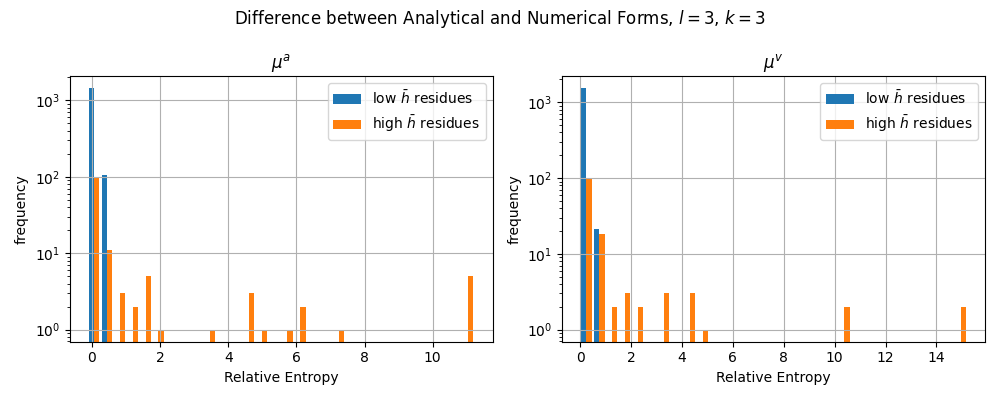
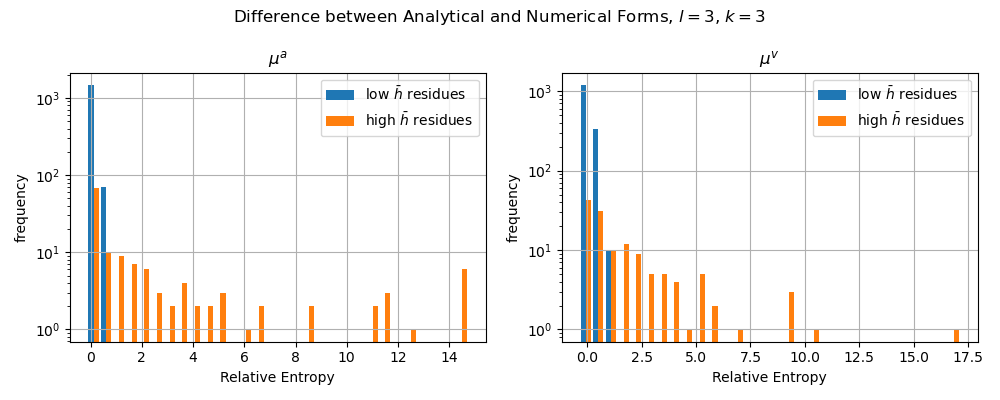
Ising bptt corrected wrong solution

diff --git a/writeup.tex b/writeup.tex
@@ -1841,7 +1841,7 @@ Hence, rewriting the objective, define
 
 Taking the Lagrange multiplier of the above target $\widetilde{V}(\beta, B, \ell, k, \pi)$ on $\pi$, we have
 \begin{equation*}
-    \frac{\partial \widetilde{V}}{\partial \pi(x, x')} = \beta k x x' + \alpha B x + B x' + (k+\alpha) \log \pi^0(x) + (k+1)\log\pi^1(x') - k\log\pi(x, x') + \lambda = 0,
+    \frac{\partial \widetilde{V}}{\partial \pi(x, x')} = \beta k x x' + \alpha B x + B x' + (k-\alpha) \log \pi^0(x) + (k-1)\log\pi^1(x') - k\log\pi(x, x') + \lambda = 0,
 \end{equation*}
 where $\lambda$ is a constant coming from the Lagrange multiplier of $\sum_{x, x'\in\mathcal{X}} \pi(x, x') = 1$.
 
@@ -1968,16 +1968,20 @@ This is a bit complicated. There seems to be multiple solutions to the cavity eq
 
 To solve for $\mu^a$ and $\mu^v$, we first consider the root mark distributions:
 \begin{equation*}
-    \pi^0(x) = \frac1{Z_\pi}e^{\bar{h}^a x} 2\cosh(\beta x + \bar{h}^v)
+    \pi^0(x) = \frac1{Z_\pi}e^{\bar{h}^a x} 2\cosh(\beta + \bar{h}^vx)
 \end{equation*}
 we can see that
 \begin{equation*}
-    Z^\pi = 2e^{\bar{h}^a}\cosh(\beta + \bar{h}^v) + 2e^{-\bar{h}^a}\cosh(\beta - \bar{h}^v)
+    \pi^{1|0}(x'|x) =\frac{\pi(x, x')}{\pi^0(x)}= \frac{\exp[\beta xx' + \bar{h}^vx']}{2\cosh(\beta + \bar{h}^vx)}.
 \end{equation*}
-Thus
+and
+\begin{equation*}
+    Z^\pi = 2e^{\bar{h}^a}\cosh(\beta + \bar{h}^v) + 2e^{-\bar{h}^a}\cosh(\beta - \bar{h}^v),
+\end{equation*}
+Thus,
 \begin{align*}
-    \pi^0(x) & = \frac{e^{\bar{h}^a x} \cosh(\beta x + \bar{h}^v)}{e^{\bar{h}^a x}\cosh(\beta x + \bar{h}^v) + e^{-\bar{h}^ax}\cosh(\beta x - \bar{h}^v)} \\
-             & = \frac{1}{1 + e^{-2\bar{h}^ax}\frac{\cosh(\beta x - \bar{h}^v)}{\cosh(\beta x + \bar{h}^v)}}
+    \pi^0(x) & = \frac{e^{\bar{h}^a x} \cosh(\beta + \bar{h}^vx)}{e^{\bar{h}^a x}\cosh(\beta + \bar{h}^vx) + e^{-\bar{h}^ax}\cosh(\beta - \bar{h}^vx)} \\
+             & = \frac{1}{1 + e^{-2\bar{h}^ax}\frac{\cosh(\beta - \bar{h}^vx)}{\cosh(\beta + \bar{h}^vx)}}.
 \end{align*}
 We can rewrite (\ref{Eq.ISBP-hbar-a}) as
 \begin{equation*}
@@ -1987,43 +1991,43 @@ for all $x\in\{-1, 1\}$.
 
 Exponentiating and rearranging, we have
 \begin{equation*}
-    e^{2\bar{h}^ax}\left[\frac{\cosh(\beta x + \bar{h}^v)}{\cosh(\beta x - \bar{h}^v)}\right] = e^{2Bx}\left[\frac{\cosh(\beta x + \bar{h}^v)}{\cosh(\beta x - \bar{h}^v)}\right]^\ell.
+    e^{2\bar{h}^ax}\left[\frac{\cosh(\beta + \bar{h}^vx)}{\cosh(\beta - \bar{h}^vx)}\right] = e^{2Bx}\left[\frac{\cosh(\beta + \bar{h}^vx)}{\cosh(\beta - \bar{h}^vx)}\right]^\ell.
 \end{equation*}
 Thus,
 \begin{align*}
-    \pi^0(x) & = \frac{1}{1 + e^{-2Bx}\left[\frac{\cosh(\beta x - \bar{h}^v)}{\cosh(\beta x + \bar{h}^v)}\right]^\ell}                         \\
+    \pi^0(x) & = \frac{1}{1 + e^{-2Bx}\left[\frac{\cosh(\beta - \bar{h}^vx)}{\cosh(\beta + \bar{h}^vx)}\right]^\ell}                           \\
              & = \frac{e^{Bx}[\cosh(\beta x + \bar{h}^v)]^\ell}{e^{B}[\cosh(\beta + \bar{h}^v)]^\ell + e^{-B}[\cosh(\beta - \bar{h}^v)]^\ell}.
 \end{align*}
 Therefore,
 \begin{align*}
-    \bar{\mu}^a(x, j; \pi) & = \pi^0(x){\ell \choose j} \left[\frac{\pi(x, x)}{\pi^0(x)}\right]^j \left[\frac{\pi(x, -x)}{\pi^0(x)}\right]^{\ell-j}      \\
-                           & = \frac{e^{Bx}}{e^{B}[\cosh(\beta + \bar{h}^v)]^\ell + e^{-B}[\cosh(\beta - \bar{h}^v)]^\ell}
-    {\ell \choose j} \left[e^{\beta xx + \bar{h}^a x + \bar{h}^v x}\right]^j
-    \left[e^{\beta x(-x) + \bar{h}^a x + \bar{h}^v (-x)}\right]^{\ell - j}
-    \intertext{Let $Z^a = e^{B}[\cosh(\beta + \bar{h}^v)]^\ell + e^{-B}[\cosh(\beta - \bar{h}^v)]^\ell$}
-                           & = \frac1{Z^a} {\ell \choose j} \exp\left\{\beta x [jx - (\ell-j)x] + Bx + \bar{h}^a x + \bar{h}^v [jx - (\ell-j) x]\right\}
+    \bar{\mu}^a(x, j; \pi) & = \pi^0(x){\ell \choose j} \left[\pi^{1|0}(x|x)\right]^j \left[\pi^{1|0}(-x|x)\right]^{\ell-j}                \\
+                           & = \frac{e^{Bx}}{e^{B}[2\cosh(\beta + \bar{h}^v)]^\ell + e^{-B}[2\cosh(\beta - \bar{h}^v)]^\ell}
+    {\ell \choose j} \left[e^{\beta xx + \bar{h}^v x}\right]^j
+    \left[e^{\beta x(-x) + \bar{h}^v (-x)}\right]^{\ell - j}
+    \intertext{Let $Z^a = e^{B}[2\cosh(\beta + \bar{h}^v)]^\ell + e^{-B}[2\cosh(\beta - \bar{h}^v)]^\ell$}
+                           & = \frac1{Z^a} {\ell \choose j} \exp\left\{\beta x [jx - (\ell-j)x] + Bx + \bar{h}^v [jx - (\ell-j) x]\right\}
 \end{align*}
 Similarly, by calculating $\pi^1$,
 \begin{equation*}
-    \bar{\mu}^v(x, i; \pi) = \frac1{Z^v} {k \choose i} \exp\left\{\beta x [ix - (k-i)x] + Bx + \bar{h}^a [ix - (k-i) x] + \bar{h}^v x\right\}.
+    \bar{\mu}^v(x, i; \pi) = \frac1{Z^v} {k \choose i} \exp\left\{\beta x [ix - (k-i)x] + Bx + \bar{h}^a [ix - (k-i) x]\right\}.
 \end{equation*}
 where
 \begin{equation*}
     Z^v = e^{B}[\cosh(\beta + \bar{h}^a)]^k + e^{-B}[\cosh(\beta - \bar{h}^a)]^k.
 \end{equation*}
-The optimizers are in the form
+The optimizers are of the form
 \begin{equation}
     \begin{cases}
-        \bar{\mu}^a(\mathbf{x}; \bar{h}^a, \bar{h}^v) = \displaystyle\frac1{Z^a} \exp\left(\beta \sum_{v=1}^\ell x_0x_v + Bx_0 + \bar{h}^a x_0 + \bar{h}^v \sum_{v=0}^\ell x_v\right) \\
-        \bar{\mu}^v(\mathbf{x}; \bar{h}^a, \bar{h}^v) = \displaystyle\frac1{Z^v} \exp\left(\beta \sum_{v=1}^k x_0x_v + Bx_0 + \bar{h}^v x_0 + \bar{h}^a \sum_{v=0}^k x_v\right),
+        \bar{\mu}^a(\mathbf{x}; \bar{h}^a, \bar{h}^v) = \displaystyle\frac1{Z^a} \exp\left(\beta \sum_{v=1}^\ell x_0x_v + Bx_0 + \bar{h}^v \sum_{v=0}^\ell x_v\right) \\
+        \bar{\mu}^v(\mathbf{x}; \bar{h}^a, \bar{h}^v) = \displaystyle\frac1{Z^v} \exp\left(\beta \sum_{v=1}^k x_0x_v + Bx_0 + \bar{h}^a \sum_{v=0}^k x_v\right),
     \end{cases}
     \label{Eq.ISBP-soln}
 \end{equation}
 where
 \begin{equation}
     \begin{cases}
-        Z^a = e^{B}[\cosh(\beta + \bar{h}^v)]^\ell + e^{-B}[\cosh(\beta - \bar{h}^v)]^\ell \\
-        Z^v = e^{B}[\cosh(\beta + \bar{h}^a)]^k + e^{-B}[\cosh(\beta - \bar{h}^a)]^k,
+        Z^a = e^{B}[2\cosh(\beta + \bar{h}^v)]^\ell + e^{-B}[2\cosh(\beta - \bar{h}^v)]^\ell \\
+        Z^v = e^{B}[2\cosh(\beta + \bar{h}^a)]^k + e^{-B}[2\cosh(\beta - \bar{h}^a)]^k,
     \end{cases}
 \end{equation}
 and
@@ -2038,21 +2042,21 @@ We can rewrite $Z^\pi$ in terms of $Z^a$ or $Z^v$, following the same steps as w
 \begin{align*}
     Z^\pi & = 2e^{\bar{h}^a} \cosh(\beta + \bar{h}^v)\left[1 + e^{-2\bar{h}^a}\frac{\cosh(\beta - \bar{h}^v)}{\cosh(\beta + \bar{h}^v)}\right]             \\
           & = 2e^{\bar{h}^a} \cosh(\beta + \bar{h}^v)\left\{1 + e^{-2B}\left[\frac{\cosh(\beta - \bar{h}^v)}{\cosh(\beta + \bar{h}^v)}\right]^\ell\right\} \\
-          & = 2e^{\bar{h}^a - B}[\cosh(\beta + \bar{h}^v)]^{-(\ell - 1)} Z^a
+          & = e^{\bar{h}^a - B}[2\cosh(\beta + \bar{h}^v)]^{-(\ell - 1)} Z^a
 \end{align*}
 Hence,
 \begin{equation}
-    \log Z^\pi = \log Z^a + \log 2 + (\bar{h}^a - B) - (\ell - 1) \log \cosh(\beta + \bar{h}^v).
+    \log Z^\pi = \log Z^a + (\bar{h}^a - B) - (\ell - 1) \log 2\cosh(\beta + \bar{h}^v).
     \label{Eq.ISBP-Zpi-Za}
 \end{equation}
 Similarly,
 \begin{equation}
-    \log Z^\pi = \log Z^v + \log 2 + (\bar{h}^v - B) - (k - 1) \log \cosh(\beta + \bar{h}^a).
+    \log Z^\pi = \log Z^v + (\bar{h}^v - B) - (k - 1) \log 2\cosh(\beta + \bar{h}^a).
     \label{Eq.ISBP-Zpi-Zv}
 \end{equation}
 Thus,
 \begin{equation}
-    \frac{Z^a}{Z^v} = \frac{e^{-\bar{h}^a}[\cosh(\beta + \bar{h}^v)]^{\ell - 1}}{e^{-\bar{h}^v}[\cosh(\beta + \bar{h}^a)]^{k - 1}}.
+    \frac{Z^a}{Z^v} = \frac{e^{-\bar{h}^a}[2\cosh(\beta + \bar{h}^v)]^{\ell - 1}}{e^{-\bar{h}^v}[2\cosh(\beta + \bar{h}^a)]^{k - 1}}.
 \end{equation}
 
 \subsection{Bipartite Ising Annealed Pressure}
@@ -2069,8 +2073,8 @@ for $Z^\pi = 2e^{\bar{h}^a}\cosh(\beta + \bar{h}^v) + 2e^{-\bar{h}^a}\cosh(\beta
 and
 \begin{equation*}
     \begin{aligned}
-        \pi^0(x) = \frac1{Z^a}e^{Bx}[\cosh(\beta x + \bar{h}^v)]^\ell \\
-        \pi^1(x) = \frac1{Z^v}e^{Bx}[\cosh(\beta x + \bar{h}^a)]^k.
+        \pi^0(x) = \frac1{Z^a}e^{Bx}[2\cosh(\beta + \bar{h}^vx)]^\ell \\
+        \pi^1(x) = \frac1{Z^v}e^{Bx}[2\cosh(\beta + \bar{h}^ax)]^k.
     \end{aligned}
 \end{equation*}
 Notice that all of these distributions are exponential distributions, and for exponential distribution
@@ -2084,37 +2088,37 @@ we can write
 \end{equation*}
 Thus,
 \begin{align*}
-    H(\pi)   & = \log Z^\pi - \mathbb{E}_\pi (\beta x_0 x_v + \bar{h}^a x_0 + \bar{h}^v x_v)    \\
-    H(\pi^0) & = \log Z^a - \mathbb{E}_{\pi^0} (Bx_0 + \ell \log \cosh (\beta x_0 + \bar{h}^v)) \\
-    H(\pi^0) & = \log Z^v - \mathbb{E}_{\pi^1} (Bx_v + k \log \cosh (\beta x_v + \bar{h}^a)).
+    H(\pi)   & = \log Z^\pi - \mathbb{E}_\pi (\beta x_0 x_v + \bar{h}^a x_0 + \bar{h}^v x_v)     \\
+    H(\pi^0) & = \log Z^a - \mathbb{E}_{\pi^0} (Bx_0 + \ell \log 2\cosh (\beta + \bar{h}^v x_0)) \\
+    H(\pi^0) & = \log Z^v - \mathbb{E}_{\pi^1} (Bx_v + k \log 2\cosh (\beta + \bar{h}^a x_v)).
 \end{align*}
 Plugging in, we have
 \begin{align*}
     \widetilde{V}(\beta, B, \ell, k, \pi) = & k \log Z^\pi - (k-\alpha) \log Z^a - (k-1)\log Z^v                                  \\
                                             & + k\mathbb{E}_{\pi^0} (B - \bar{h}^a) x_0 + k\mathbb{E}_{\pi^1} (B - \bar{h}^v) x_v \\
-                                            & + k (\ell - 1) \mathbb{E}_{\pi^0} \log\cosh(\beta x_0 + \bar{h}^v)
-    + k (k - 1) \mathbb{E}_{\pi^1} \log\cosh(\beta x_v + \bar{h}^a)
+                                            & + k (\ell - 1) \mathbb{E}_{\pi^0} \log2\cosh(\beta x_0 + \bar{h}^v)
+    + k (k - 1) \mathbb{E}_{\pi^1} \log2\cosh(\beta x_v + \bar{h}^a)
 \end{align*}
-To rewrite $\mathbb{E}_{\pi^0} \log\cosh(\beta x_0 + \bar{h}^v)$ and $\mathbb{E}_{\pi^1} \log\cosh(\beta x_v + \bar{h}^a)$,
+To rewrite $\mathbb{E}_{\pi^0} \log\cosh(\beta + \bar{h}^v x_0)$ and $\mathbb{E}_{\pi^1} \log\cosh(\beta + \bar{h}^a x_v)$,
 notice that we have (\ref{Eq.ISBP-Zpi-Za}), which gives
 \begin{equation}
-    \log Z^\pi = \log Z^a + \log 2 + (\bar{h}^a - B)x - (\ell - 1) \log \cosh(\beta x + \bar{h}^v),
+    \log Z^\pi = \log Z^a + (\bar{h}^a - B)x - (\ell - 1) \log 2\cosh(\beta + \bar{h}^v x),
 \end{equation}
 for all $x\in\{-1, 1\}$, since by rearranging the cavity equation (\ref{Eq.ISBP-hbar-v}), we have
 \begin{equation*}
-    (\bar{h}^a - B) - (\ell - 1) \log \cosh(\beta + \bar{h}^v) = -(\bar{h}^a - B) - (\ell - 1) \log \cosh(-\beta + \bar{h}^v).
+    (\bar{h}^a - B) - (\ell - 1) \log 2\cosh(\beta + \bar{h}^v) = -(\bar{h}^a - B) - (\ell - 1) \log 2\cosh(\beta - \bar{h}^v).
 \end{equation*}
 This means we can rewrite the expectation
 \begin{align*}
-    \mathbb{E}_{\pi^0} (\ell - 1) \log\cosh(\beta x_0 + \bar{h}^v) & = \log Z^a - \log Z^\pi + \log 2 - \mathbb{E}_{\pi^0} (B - \bar{h}^a)x_0.
+    \mathbb{E}_{\pi^0} (\ell - 1) \log2\cosh(\beta + \bar{h}^v x_0) & = \log Z^a - \log Z^\pi - \mathbb{E}_{\pi^0} (B - \bar{h}^a)x_0.
 \end{align*}
 Similarly,
 \begin{align*}
-    \mathbb{E}_{\pi^1} (k - 1) \log\cosh(\beta x_v + \bar{h}^a) & = \log Z^v - \log Z^\pi + \log 2 - \mathbb{E}_{\pi^1} (B - \bar{h}^v)x_v.
+    \mathbb{E}_{\pi^1} (k - 1) \log2\cosh(\beta + \bar{h}^a x_v) & = \log Z^v - \log Z^\pi - \mathbb{E}_{\pi^1} (B - \bar{h}^v)x_v.
 \end{align*}
 Substituting in, we have an optimum
 \begin{equation}
-    \widetilde{V}(\beta, B, \ell, k, \pi) = \alpha \log Z^a + \log Z^v - k \log Z^\pi + 2k\log 2.
+    \widetilde{V}(\beta, B, \ell, k, \pi) = \alpha \log Z^a + \log Z^v - k \log Z^\pi.
     \label{Eq.ISBP-AP-Z-form}
 \end{equation}
 
